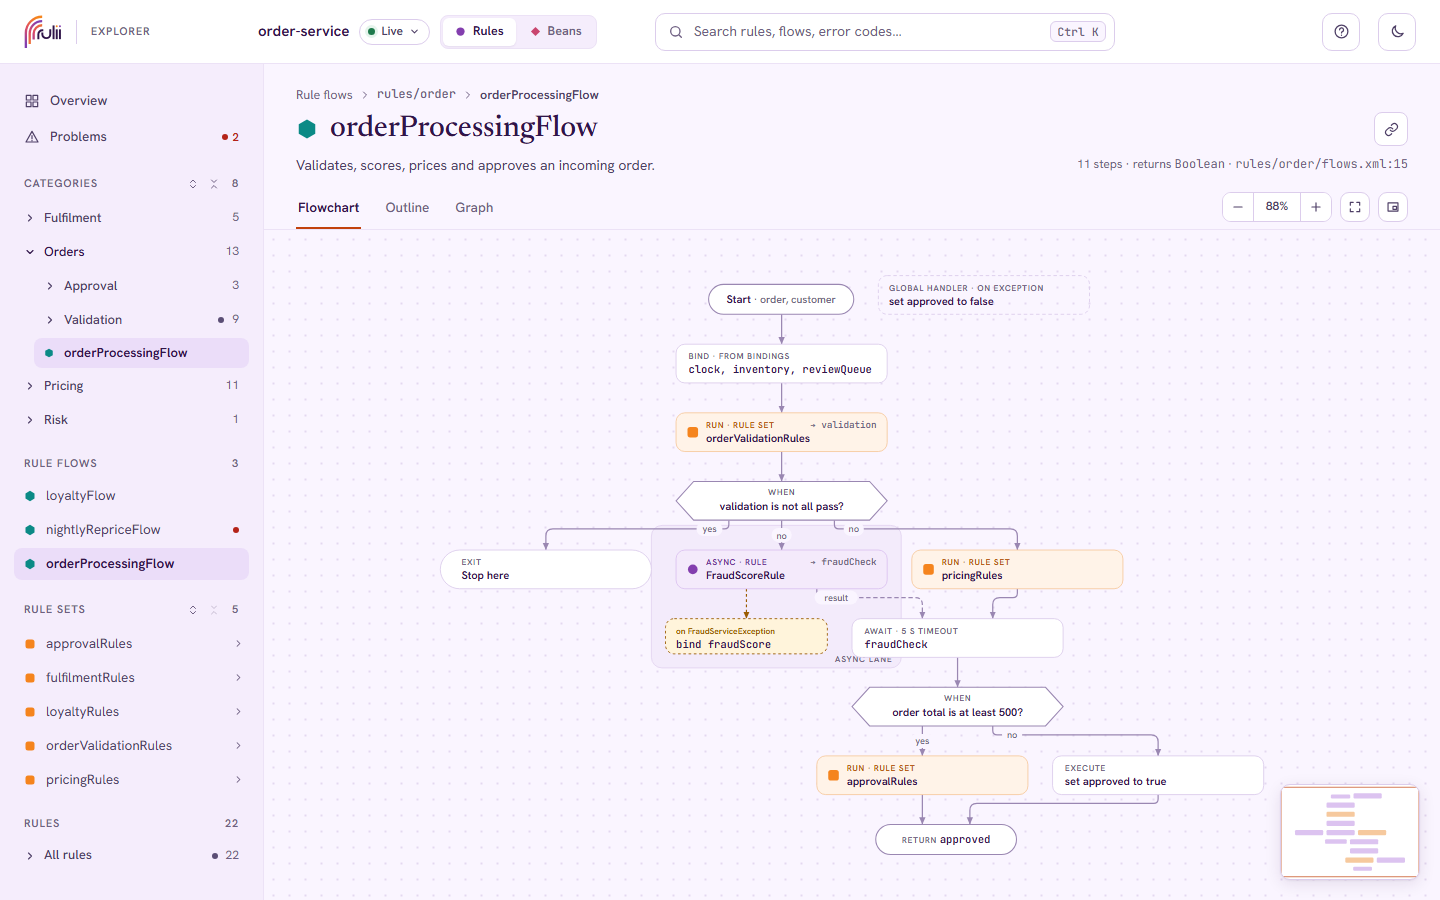
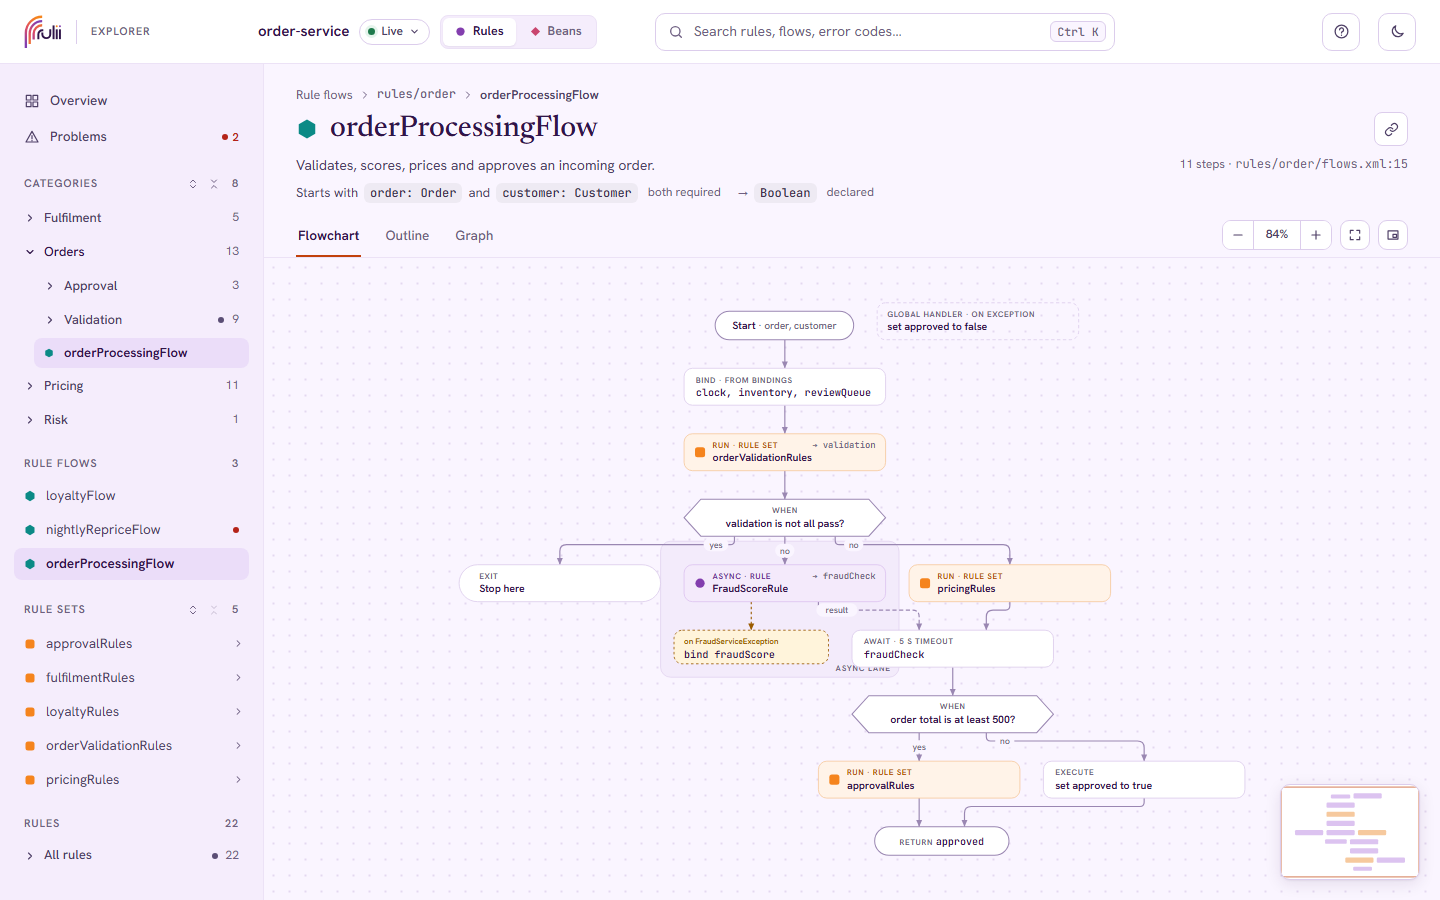
docs updated

diff --git a/rulii-explorer-ui/src/main/resources/META-INF/rulii-explorer/app/features/artifact/ruleflow.js b/rulii-explorer-ui/src/main/resources/META-INF/rulii-explorer/app/features/artifact/ruleflow.js
@@ -27,6 +27,7 @@ export function ruleFlowPage(a, host) {
     walkCommands(f.commands, () => steps++);
     const source = sourceText(a.source);
     const result = resultOf(a);
+    const start = startsWith(a, f);
     const selected = route.query.step || '';
     const aside = selected ? stepAside(a, selected, index, host) : nothing;
     const tabHref = (v) => routes.artifact(a, {view: v, step: selected});
@@ -41,8 +42,9 @@ export function ruleFlowPage(a, host) {
                 </div>
                 <div class="rx-flow-desc">
                     <p>${a.description || html`<span class="rx-muted">No description.</span>`}</p>
-                    <span>${plural(steps, 'step')}${result ? html` · returns ${result.type ? html`<span class="rx-mono" title=${result.full + (originWords(result.origin) ? ' · ' + originWords(result.origin) : '')}>${result.type}</span>` : 'a value of unknown type'}` : nothing}${source ? html` · <span class="rx-mono">${source}</span>` : nothing}</span>
+                    <span>${plural(steps, 'step')}${source ? html` · <span class="rx-mono">${source}</span>` : nothing}</span>
                 </div>
+                <div class="rx-flow-inputs" aria-label="Inputs and result">${start.text}${start.caption ? html`<span class="rx-flow-inputs-caption">${start.caption}</span>` : nothing}${result ? html`<span class="rx-flow-returns" title=${result.full ? 'Returns ' + result.full : 'Returns a value of unknown type'}>→ ${result.type ? html`<span class="rx-chip">${result.type}</span>` : html`<span class="rx-muted">unknown type</span>`}</span>${originWords(result.origin) ? html`<span class="rx-flow-inputs-caption">${originWords(result.origin)}</span>` : nothing}` : nothing}</div>
                 <div class="rx-flow-bar">
                     <div class="rx-tabs" role="tablist" aria-label="Views">
                         <a role="tab" class="rx-tab" aria-selected=${!outline} href=${tabHref('flowchart')}>Flowchart</a>
@@ -109,13 +111,19 @@ function outlineBody(a, f, host, view, selected, index) {
     </div>`;
 }
 
-function startRow(a, f) {
+/** "Starts with order: Order and customer: Customer" plus "both required": the flow header line and the outline START row share it. */
+function startsWith(a, f) {
     const params = a.parameters || [];
     const required = params.filter(p => p.required !== false).length;
     const text = params.length
         ? html`<span>Starts with</span>${params.map((p, i) => html`${i ? html`<span>${i === params.length - 1 ? 'and' : ','}</span>` : nothing}<span class="rx-chip" title=${p.description || p.type || ''}>${p.name}: ${shortType(p.type)}</span>`)}`
         : html`<span>Starts with ${f.context ? html`the bindings from <span class="rx-mono">${f.context}</span>` : 'whatever the caller binds'}</span>`;
     const caption = params.length ? (required === params.length ? (params.length === 1 ? 'required' : params.length === 2 ? 'both required' : 'all required') : required + ' of ' + params.length + ' required') : '';
+    return {text, caption};
+}
+
+function startRow(a, f) {
+    const {text, caption} = startsWith(a, f);
     return row({number: '', tag: 'START', tagClass: 'rx-step-tag-flow', text, caption, color: 'var(--rx-ink-2)'});
 }
 

diff --git a/rulii-explorer-ui/src/main/resources/META-INF/rulii-explorer/app/design/app.css b/rulii-explorer-ui/src/main/resources/META-INF/rulii-explorer/app/design/app.css
@@ -640,6 +640,11 @@ a.rx-stat:hover { border-color: var(--rx-line-strong); }
 .rx-flow-desc p { flex-grow: 1; font-size: 14px; color: var(--rx-ink-2); }
 .rx-flow-desc span { font-size: 12px; color: var(--rx-ink-3); white-space: nowrap; }
 .rx-flow-desc span .rx-mono { font-size: 12px; }
+.rx-flow-inputs { display: flex; align-items: center; flex-wrap: wrap; gap: 6px; font-size: 13px; color: var(--rx-ink-2); }
+.rx-flow-inputs .rx-chip { font-size: 12px; }
+.rx-flow-inputs .rx-mono { font-size: 12.5px; }
+.rx-flow-inputs-caption { font-size: 12px; color: var(--rx-ink-3); margin-left: 4px; }
+.rx-flow-returns { display: inline-flex; align-items: center; gap: 6px; margin-left: 10px; color: var(--rx-ink-3); }
 .rx-flow-bar { display: flex; align-items: flex-end; justify-content: space-between; gap: 16px; margin-top: 6px; }
 .rx-flow-tools { display: flex; align-items: center; gap: 8px; padding-bottom: 7px; }
 .rx-flow-body { padding: 18px 32px 24px; display: flex; flex-direction: column; gap: 16px; }

diff --git a/GUIDE.md b/GUIDE.md
@@ -67,9 +67,12 @@ The flowchart is laid out top to bottom, one node per step:
   A global handler, which catches whatever any step throws, sits on its own.
 - **Exit**: a pill that stops the flow here, with or without a value. Start, Return and End are
   pills too: Start lists the flow's parameters, Return shows the expression. The flow's header
-  says what it returns ("returns `Boolean`"; hover for the full name and whether the type was
-  declared or derived), and the outline's Return row carries the same in its caption. A flow
-  without a Return gives back its rule context and says nothing.
+  lists its inputs with their types and, on the same line, what it returns: "Starts with
+  `order: Order` and `customer: Customer`, both required → `Boolean`, declared". A flow without
+  declared inputs starts with whatever the caller binds, or with the bindings of its own context;
+  "declared", "derived" or "unknown type" say where the result type came from, and hovering the
+  arrow shows the full class name. The outline's Start and Return rows carry the same. A flow
+  without a Return gives back its rule context and shows no arrow.
 - **Not registered**: a red dashed box. Nothing with that name exists, so the step fails when it
   runs. Problems says how to fix it.
 - **Dashed outline**: the target is looked up by name or class from the registry when the flow

diff --git a/CHANGELOG.md b/CHANGELOG.md
@@ -22,7 +22,11 @@ Requires rulii 2.2.0 and rulii-spring 2.2.0; the Beans section needs rulii-bean-
   `derived`, `default`, `unknown` or `none`); a flow's `resultType` is now absent when the type
   is not known, where 1.0 wrote `java.lang.Object`. The UI shows what a rule set or flow returns
   and where the type came from on its page, in the hover card and the graph panel, and a flow
-  step that keeps a result under a name shows the result's type.
+  step that keeps a result under a name shows the result's type. The flow page header now lists
+  the flow's inputs with their types, as the rule set page does, so the flowchart view no longer
+  shows parameter names only.
+- **Resizable sidebar**: drag the sidebar's right edge to make it wider when a deep category tree
+  needs the room; the width is remembered in the browser.
 
 ## 1.0.0 (2026-10-04)
 

diff --git a/README.md b/README.md
@@ -47,7 +47,9 @@ mvn -pl rulii-explorer-demo spring-boot:run
   SpEL, JavaScript and Java scripts all read as sentences; anything the explorer cannot phrase is shown
   as written.
 - **Rule flows** as a flowchart (decisions, loops, scopes, an async lane, exception handlers) and as
-  an outline, the text equivalent. Clicking a step shows what it runs.
+  an outline, the text equivalent. Clicking a step shows what it runs. Rule sets and flows say what
+  they take and what they return, and whether the result type was declared, derived or is unknown
+  (rulii 2.2); a step that keeps a result under a name shows its type.
 - **Dependency graph** focused on one artifact and its neighbourhood, or the whole application
   grouped by package.
 - **Bindings**: who writes a value, who reads it, which properties, and where compiled code might
